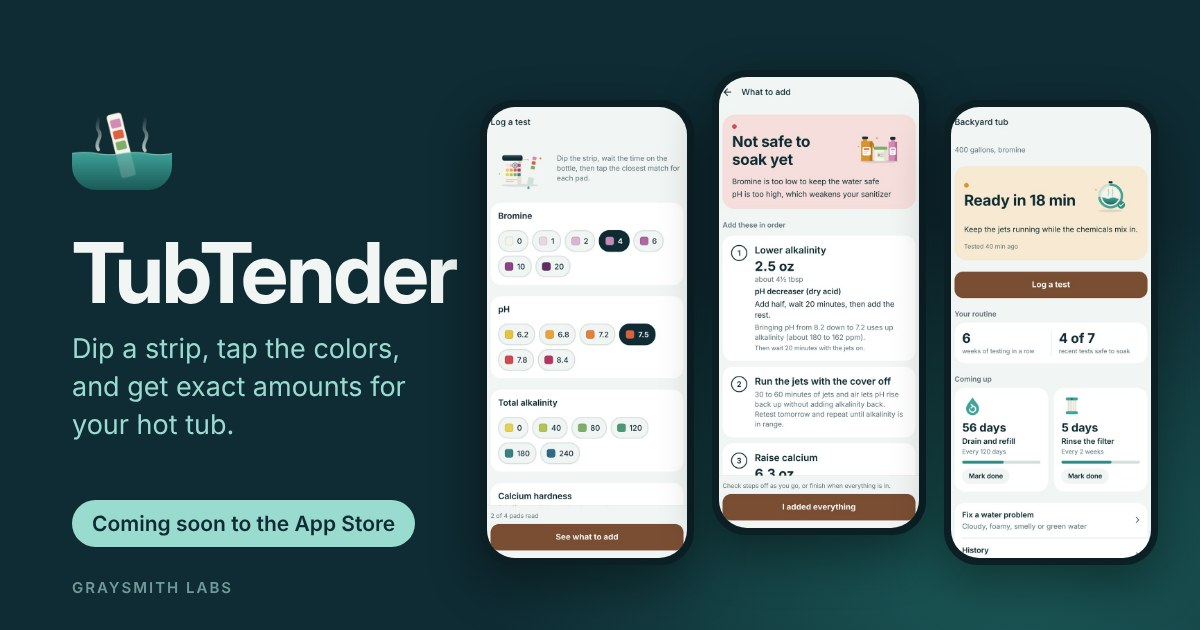
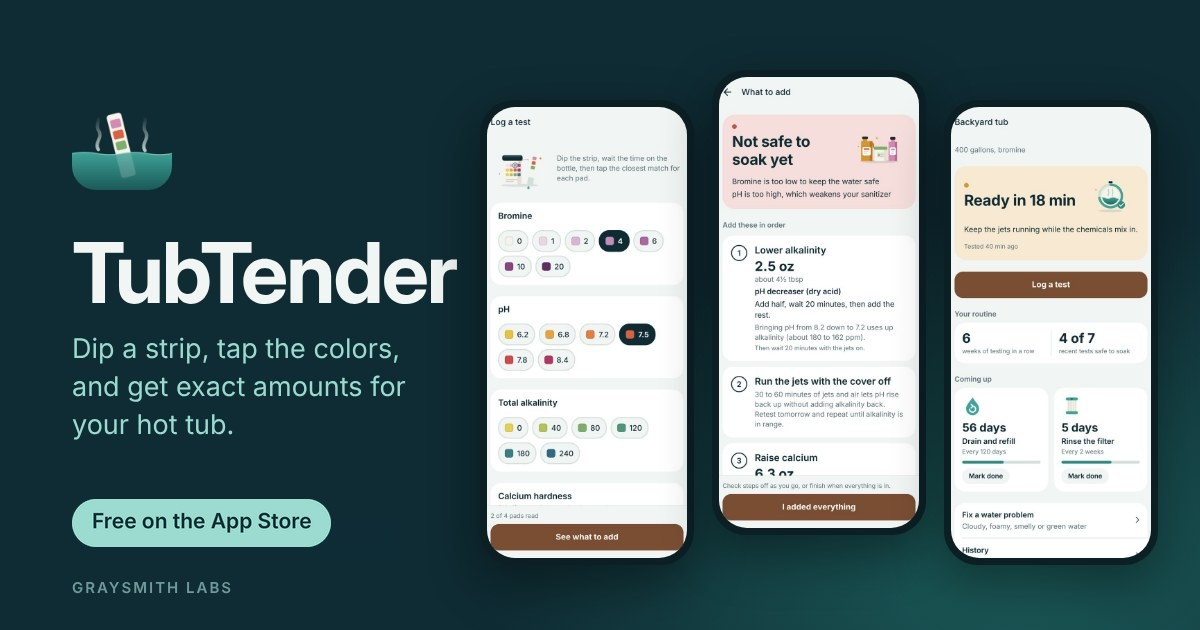
TubTender is live: App Store button, homepage card and footer links

Changed region(s): [[0.0617, 0.7841, 0.37, 0.8746]]

diff --git a/apps/tubtender.html b/apps/tubtender.html
@@ -6,6 +6,7 @@
 <title>TubTender: Hot Tub Care | Graysmith Labs</title>
 <meta name="description" content="TubTender: dip a strip, tap the colors and get exact amounts for your hot tub. Support, FAQ and contact for TubTender by Graysmith Labs.">
 <link rel="canonical" href="https://graysmithlabs.com/apps/tubtender.html">
+<meta name="apple-itunes-app" content="app-id=6820791512">
 <meta name="theme-color" content="#f4f1ea" media="(prefers-color-scheme: light)">
 <meta name="theme-color" content="#131513" media="(prefers-color-scheme: dark)">
 <meta property="og:type" content="website">
@@ -13,14 +14,14 @@
 <meta property="og:title" content="TubTender: Hot Tub Care | Graysmith Labs">
 <meta property="og:description" content="TubTender: dip a strip, tap the colors and get exact amounts for your hot tub. Support, FAQ and contact for TubTender by Graysmith Labs.">
 <meta property="og:url" content="https://graysmithlabs.com/apps/tubtender.html">
-<meta property="og:image" content="https://graysmithlabs.com/assets/apps/tubtender/og.jpg">
+<meta property="og:image" content="https://graysmithlabs.com/assets/apps/tubtender/og.jpg?v=2">
 <meta property="og:image:width" content="1200">
 <meta property="og:image:height" content="630">
-<meta property="og:image:alt" content="TubTender app screens on iPhone, coming soon to the App Store">
+<meta property="og:image:alt" content="TubTender app screens on iPhone, free on the App Store">
 <meta name="twitter:card" content="summary_large_image">
 <meta name="twitter:site" content="@GraysmithLabs">
-<meta name="twitter:image" content="https://graysmithlabs.com/assets/apps/tubtender/og.jpg">
-<meta name="twitter:image:alt" content="TubTender app screens on iPhone, coming soon to the App Store">
+<meta name="twitter:image" content="https://graysmithlabs.com/assets/apps/tubtender/og.jpg?v=2">
+<meta name="twitter:image:alt" content="TubTender app screens on iPhone, free on the App Store">
 <link rel="icon" href="../favicon.svg" type="image/svg+xml">
 <link rel="preconnect" href="https://fonts.googleapis.com">
 <link rel="preconnect" href="https://fonts.gstatic.com" crossorigin>
@@ -64,8 +65,8 @@
         <p class="lede rise d2" style="font-family:var(--serif);font-size:22px;color:var(--ink);line-height:1.4">Hot tub care without the guesswork.</p>
         <p class="lede rise d3" style="margin-top:18px">Dip a test strip, tap the colors that match, and TubTender tells you exactly what to add, how much of the bottles you already own, and in what order. Then it counts down until the water is safe to soak.</p>
         <div class="btn-row rise d3">
-          <a class="btn" href="#support">Get help</a>
-          <a class="btn ghost" href="tubtender-privacy.html">Privacy policy</a>
+          <a class="btn" href="https://apps.apple.com/us/app/tubtender/id6820791512" rel="noopener">Download on the App Store</a>
+          <a class="btn ghost" href="#support">Get help</a>
         </div>
       </div>
       <div class="phones rise d4">
@@ -77,7 +78,7 @@
     <div class="facts-bar">
       <div><span class="label">Platform</span><p>iPhone</p></div>
       <div><span class="label">Category</span><p>Lifestyle</p></div>
-      <div><span class="label">Launch</span><p>Coming soon to the App Store</p></div>
+      <div><span class="label">Launched</span><p>October 2026</p></div>
       <div><span class="label">Sanitizers</span><p>Bromine and chlorine</p></div>
       <div><span class="label">Pricing</span><p>Free, with Premium monthly or yearly and a free week to try it</p></div>
     </div>
@@ -155,6 +156,14 @@
       </div>
     </div>
   </section>
+  <section>
+    <div class="wrap">
+      <nav class="pager" aria-label="More apps">
+        <a href="saybright.html"><img src="../assets/apps/saybright/icon.png" alt="" width="44" height="44"><span><span class="label">Previous</span><b>SayBright</b></span></a>
+        <a class="next" href="drift.html"><span><span class="label">Next</span><b>Drift</b></span><img src="../assets/apps/drift/icon.png" alt="" width="44" height="44"></a>
+      </nav>
+    </div>
+  </section>
 </main>
 <footer class="site-foot">
   <div class="wrap">
@@ -171,6 +180,7 @@
           <li><a href="../apps/blitztap.html">BlitzTap</a></li>
           <li><a href="../apps/celebriday.html">CelebriDay</a></li>
           <li><a href="../apps/saybright.html">SayBright</a></li>
+          <li><a href="../apps/tubtender.html">TubTender</a></li>
         </ul>
       </div>
       <div>

diff --git a/index.html b/index.html
@@ -216,7 +216,7 @@
         <div class="service">
           <div class="svc-top"><span class="ico"><svg viewBox="0 0 24 24" aria-hidden="true"><rect x="7" y="2.5" width="10" height="19" rx="2.5"/><path d="M11 18.5h2"/></svg></span><span class="num">03</span></div>
           <h3>Mobile apps</h3>
-          <p>iOS and Android apps from one codebase, taken all the way through store review and launch. Five of our own are live today.</p>
+          <p>iOS and Android apps from one codebase, taken all the way through store review and launch. Six of our own are live today.</p>
           <ul><li class="tag">React Native</li><li class="tag">Expo</li><li class="tag">Swift</li></ul>
         </div>
         <div class="service">
@@ -284,7 +284,7 @@
       <div class="sec-head">
         <div>
           <p class="eyebrow">Our own products</p>
-          <h2>Five apps, <em>designed and shipped</em> in house.</h2>
+          <h2>Six apps, <em>designed and shipped</em> in house.</h2>
         </div>
         <p>Alongside client work, we build and run products of our own. Each has real users, payments, and ongoing updates, which keeps our skills sharp and our advice honest.</p>
       </div>
@@ -328,6 +328,14 @@
           </div>
           <p>Personal daily affirmations with streaks, share cards, reminders, and home and lock screen widgets.</p>
           <div class="card-foot"><span class="go">View the app <span class="arrow">&rarr;</span></span><span class="stars" aria-label="Rated 5.0 on the App Store">&#9733;&#9733;&#9733;&#9733;&#9733; <b>5.0</b></span></div>
+        </a>
+        <a class="app-card" href="apps/tubtender.html">
+          <div class="top">
+            <img src="assets/apps/tubtender/icon.png" alt="" width="60" height="60" loading="lazy">
+            <div><h3>TubTender</h3><span class="tag">Lifestyle</span></div>
+          </div>
+          <p>Hot tub care without the guesswork. Tap your test strip colors, scan your bottles, and get exact amounts in the right order.</p>
+          <div class="card-foot"><span class="go">View the app <span class="arrow">&rarr;</span></span><span class="tag">New</span></div>
         </a>
       </div>
     </div>
@@ -543,6 +551,7 @@
           <li><a href="apps/blitztap.html">BlitzTap</a></li>
           <li><a href="apps/celebriday.html">CelebriDay</a></li>
           <li><a href="apps/saybright.html">SayBright</a></li>
+          <li><a href="apps/tubtender.html">TubTender</a></li>
         </ul>
       </div>
       <div>

diff --git a/styles.css b/styles.css
@@ -159,7 +159,6 @@ section.first { border-top: 0; }
   padding: 26px; text-decoration: none; display: flex; flex-direction: column; gap: 16px;
   transition: transform 0.2s ease, border-color 0.2s, box-shadow 0.2s;
 }
-.app-card:nth-child(4), .app-card:nth-child(5) { grid-column: span 3; }
 .app-card:hover { transform: translateY(-3px); border-color: var(--muted); box-shadow: var(--shadow); }
 .app-card .top { display: flex; align-items: center; gap: 14px; }
 .app-card img { width: 60px; height: 60px; border-radius: 14px; box-shadow: var(--shadow); flex: none; }
@@ -300,8 +299,7 @@ section.first { border-top: 0; }
 
 /* Responsive */
 @media (max-width: 960px) {
-  .app-card, .app-card:nth-child(4), .app-card:nth-child(5) { grid-column: span 3; }
-  .app-card:nth-child(5) { grid-column: span 6; }
+  .app-card,   .app-card:nth-child(5) { grid-column: span 6; }
   .feature { grid-template-columns: 1fr; }
   .grid-3, .grid-4 { grid-template-columns: repeat(2, 1fr); }
   .about, .split { grid-template-columns: 1fr; gap: 36px; }
@@ -318,7 +316,7 @@ section.first { border-top: 0; }
   section { padding: 72px 0; }
   .stats { grid-template-columns: 1fr 1fr; }
   .app-grid { grid-template-columns: 1fr; }
-  .app-card, .app-card:nth-child(4), .app-card:nth-child(5) { grid-column: auto; }
+  .app-card { grid-column: auto; }
   .grid-2, .grid-3, .grid-4, .features, .gallery, .pager { grid-template-columns: 1fr; }
   .feature .body { padding: 32px 24px; }
   .contact-card { padding: 44px 24px; border-radius: 22px; }

diff --git a/apps/saybright.html b/apps/saybright.html
@@ -113,7 +113,7 @@
     <div class="wrap">
       <nav class="pager" aria-label="More apps">
         <a href="celebriday.html"><img src="../assets/apps/celebriday/icon.png" alt="" width="44" height="44"><span><span class="label">Previous</span><b>CelebriDay</b></span></a>
-        <a class="next" href="drift.html"><span><span class="label">Next</span><b>Drift</b></span><img src="../assets/apps/drift/icon.png" alt="" width="44" height="44"></a>
+        <a class="next" href="tubtender.html"><span><span class="label">Next</span><b>TubTender</b></span><img src="../assets/apps/tubtender/icon.png" alt="" width="44" height="44"></a>
       </nav>
     </div>
   </section>
@@ -155,6 +155,7 @@
           <li><a href="../apps/blitztap.html">BlitzTap</a></li>
           <li><a href="../apps/celebriday.html">CelebriDay</a></li>
           <li><a href="../apps/saybright.html">SayBright</a></li>
+          <li><a href="../apps/tubtender.html">TubTender</a></li>
         </ul>
       </div>
       <div>

diff --git a/apps/drift.html b/apps/drift.html
@@ -112,7 +112,7 @@
   <section>
     <div class="wrap">
       <nav class="pager" aria-label="More apps">
-        <a href="saybright.html"><img src="../assets/apps/saybright/icon.png" alt="" width="44" height="44"><span><span class="label">Previous</span><b>SayBright</b></span></a>
+        <a href="tubtender.html"><img src="../assets/apps/tubtender/icon.png" alt="" width="44" height="44"><span><span class="label">Previous</span><b>TubTender</b></span></a>
         <a class="next" href="signsnap.html"><span><span class="label">Next</span><b>SignSnap</b></span><img src="../assets/apps/signsnap/icon.png" alt="" width="44" height="44"></a>
       </nav>
     </div>
@@ -155,6 +155,7 @@
           <li><a href="../apps/blitztap.html">BlitzTap</a></li>
           <li><a href="../apps/celebriday.html">CelebriDay</a></li>
           <li><a href="../apps/saybright.html">SayBright</a></li>
+          <li><a href="../apps/tubtender.html">TubTender</a></li>
         </ul>
       </div>
       <div>

diff --git a/apps/blitztap.html b/apps/blitztap.html
@@ -155,6 +155,7 @@
           <li><a href="../apps/blitztap.html">BlitzTap</a></li>
           <li><a href="../apps/celebriday.html">CelebriDay</a></li>
           <li><a href="../apps/saybright.html">SayBright</a></li>
+          <li><a href="../apps/tubtender.html">TubTender</a></li>
         </ul>
       </div>
       <div>

diff --git a/apps/celebriday.html b/apps/celebriday.html
@@ -155,6 +155,7 @@
           <li><a href="../apps/blitztap.html">BlitzTap</a></li>
           <li><a href="../apps/celebriday.html">CelebriDay</a></li>
           <li><a href="../apps/saybright.html">SayBright</a></li>
+          <li><a href="../apps/tubtender.html">TubTender</a></li>
         </ul>
       </div>
       <div>

diff --git a/apps/signsnap.html b/apps/signsnap.html
@@ -155,6 +155,7 @@
           <li><a href="../apps/blitztap.html">BlitzTap</a></li>
           <li><a href="../apps/celebriday.html">CelebriDay</a></li>
           <li><a href="../apps/saybright.html">SayBright</a></li>
+          <li><a href="../apps/tubtender.html">TubTender</a></li>
         </ul>
       </div>
       <div>

diff --git a/work/valentine-tide.html b/work/valentine-tide.html
@@ -150,6 +150,7 @@
           <li><a href="../apps/blitztap.html">BlitzTap</a></li>
           <li><a href="../apps/celebriday.html">CelebriDay</a></li>
           <li><a href="../apps/saybright.html">SayBright</a></li>
+          <li><a href="../apps/tubtender.html">TubTender</a></li>
         </ul>
       </div>
       <div>

diff --git a/apps/tubtender-privacy.html b/apps/tubtender-privacy.html
@@ -99,6 +99,7 @@
           <li><a href="../apps/blitztap.html">BlitzTap</a></li>
           <li><a href="../apps/celebriday.html">CelebriDay</a></li>
           <li><a href="../apps/saybright.html">SayBright</a></li>
+          <li><a href="../apps/tubtender.html">TubTender</a></li>
         </ul>
       </div>
       <div>

diff --git a/404.html b/404.html
@@ -64,6 +64,7 @@
           <li><a href="/apps/blitztap.html">BlitzTap</a></li>
           <li><a href="/apps/celebriday.html">CelebriDay</a></li>
           <li><a href="/apps/saybright.html">SayBright</a></li>
+          <li><a href="/apps/tubtender.html">TubTender</a></li>
         </ul>
       </div>
       <div>
